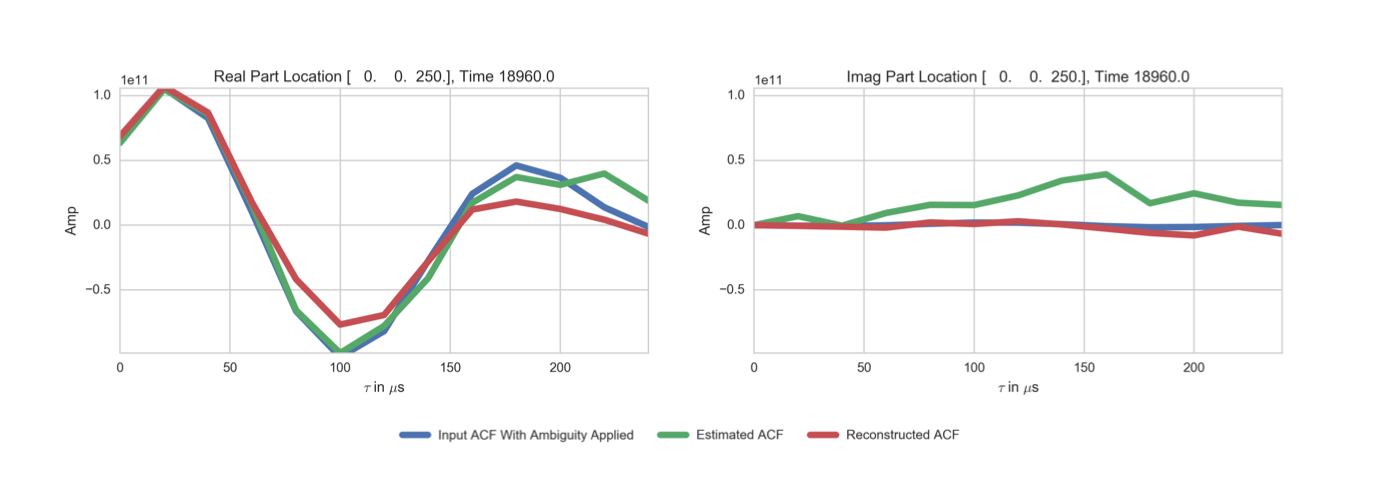
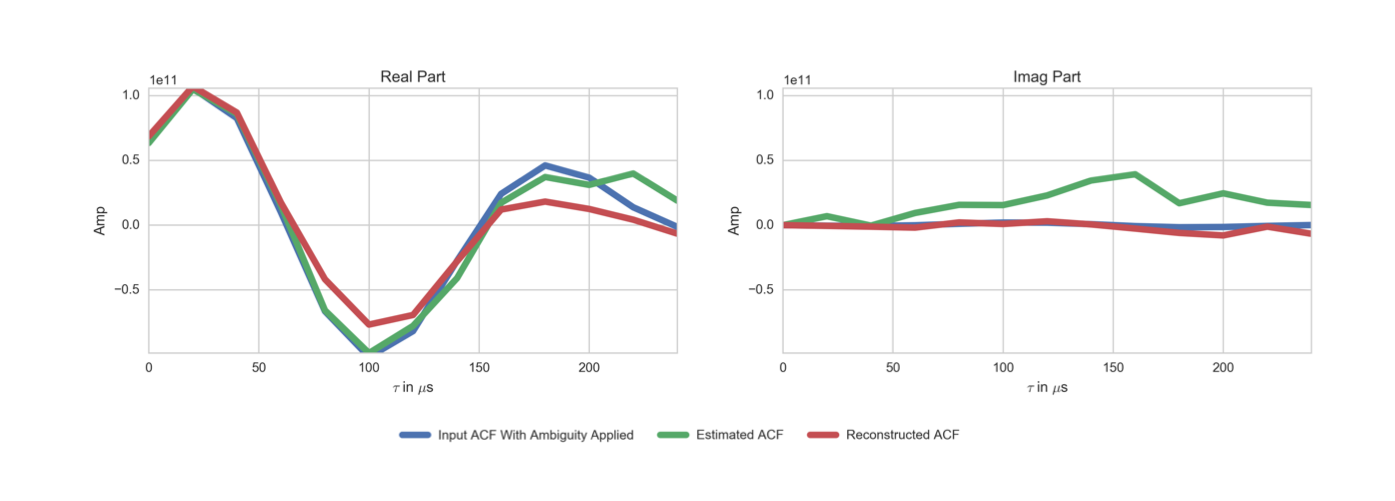
added extra acfs to inversion

diff --git a/5_Inversions/inversion.tex b/5_Inversions/inversion.tex
@@ -335,7 +335,7 @@ The results using standard fitting, and then linearly interpolating the results,
 % inverted and fitted data
 The results of using the inversion algorithms can be seen in Figures \ref{fig:tikpow}, \ref{fig:tikD} and \ref{fig:tv}. The value for the $\gamma$ term for each type of inversion the algorithm is chosen by running the algorithms and taking the value that yields lowest mean squared error between the inverted lag and the original input ACF. 
 
-The case using Tikhonov regularization where the $l^2$-norm of $\mathbf{x}_{m,l}$ is constrained is shown in Figure \ref{fig:tikpow}. This specific case shows an inability of the constraint to fill in data that may be lost due to the specific beam position. 
+The case using Tikhonov regularization where the $l^2$-norm of $\mathbf{x}_{m,l}$ is constrained is shown in Figure \ref{fig:tikpow}. An example ACF comparing the reconstruction to the input ACF and the estimated ACF using standard processing is shown in Figure \ref{fig:tikpowacf}. This specific case shows an inability of the constraint to fill in data that may be lost due to the specific beam position. This can also be seen in the ACF example as this reduced the amplitude of the ACF.
 
 \begin{figure}[!ht]
 \centering
@@ -347,11 +347,11 @@ The case using Tikhonov regularization where the $l^2$-norm of $\mathbf{x}_{m,l}
 \begin{figure}[!ht]
 \centering
 \includegraphics[width=6in]{acftik}
-\caption{Example ACF at $t=960$ s inverting lags with Equation \ref{eqn:tikpow}, Tikhonov constraint on $\mathbf{x}_{m,l}$. }
+\caption{Example ACF at time $t=960$ s and location $\mathbf{r}=[0  \text{km},0  \text{km},250 \text{km}]^T$ with reconstructing lags using Equation \ref{eqn:tikpow}, Tikhonov constraint on $\mathbf{x}_{m,l}$. }
 \label{fig:tikpowacf}
 \end{figure}
 
-The image in Figure \ref{fig:tikD} is the result of using Tikhonov regularization on the spatial gradient of each lag of the ACF. This leads to an apparent smoothing of the plasma parameters but many of the important features in this simulation, such as the depletion in $N_e$ and enhancements in $T_e$ and $T_i$ are visible and more obvious than in Figure \ref{fig:fplparamst60inv}
+The image in Figure \ref{fig:tikD} is the result of using Tikhonov regularization on the spatial gradient of each lag of the ACF. This leads to an apparent smoothing of the plasma parameters but many of the important features in this simulation, such as the depletion in $N_e$ and enhancements in $T_e$ and $T_i$ are visible and more obvious than in Figure \ref{fig:fplparamst60inv}. An example ACF comparing the reconstruction to the input ACF and the estimated ACF using standard processing is shown in Figure \ref{fig:tikDacf}. The example reconstructed ACF does show more deviations from the input in the real part but at the higher lags it more closely resembles the true ACF. The imaginary part though, is much closer to the real ACF as this possibly reduced and random Doppler shifts.
 \begin{figure}[!ht]
 \centering
 \includegraphics[width=6in]{tikdfitted}
@@ -362,22 +362,22 @@ The image in Figure \ref{fig:tikD} is the result of using Tikhonov regularizatio
 \begin{figure}[!ht]
 \centering
 \includegraphics[width=6in]{acftikd}
-\caption{Example ACF at $t=960$ s inverting lags with Equation \ref{eqn:tikpow}, Tikhonov constraint on $\mathbf{x}_{m,l}$. }
+\caption{Example ACF at time $t=960$ s and location $\mathbf{r}=[0  \text{km},0  \text{km},250 \text{km}]^T$ with reconstructing lags using Equation \ref{eqn:tikpow}, Tikhonov constraint on $\mathbf{Dx}_{m,l}$. }
 \label{fig:tikDacf}
 \end{figure}
 
-Lastly for this case the result of the inversion using the total variations constraint is shown in Figure \ref{fig:tv}. This inversion method shows the features discussed earlier but they take on a``blocky" look, as was seen in the zeroth lag case. 
+Lastly for this case the result of the inversion using the total variations constraint is shown in Figure \ref{fig:tv}. This inversion method shows the features discussed earlier but they take on a``blocky" look, as was seen in the zeroth lag case. An example ACF comparing the reconstruction to the input ACF and the estimated ACF using standard processing is shown in Figure \ref{fig:tvacf}. This shows similar behavior to the reconstruction ACF in Figure \ref{fig:tikDacf}, although the imaginary part of the ACF is much closer to the true value of zero.
 \begin{figure}[!ht]
 \centering
 \includegraphics[width=6in]{tvfitted}
-\caption{Example ACF at $t=960$ s inverting lags with Equation \ref{eqn:tv}, Total Variations constraint.}
+\caption{Fitted Plasma Parameters at $t=960$ s inverting lags with Equation \ref{eqn:tv}, Total Variations constraint.}
 \label{fig:tv}
 \end{figure}
 
 \begin{figure}[!ht]
 \centering
 \includegraphics[width=6in]{acftv}
-\caption{Fitted Plasma Parameters at $t=960$ s inverting lags with Equation \ref{eqn:tikpow}, Tikhonov constraint on $\mathbf{x}_{m,l}$. }
+\caption{Example ACF at time $t=960$ s and location $\mathbf{r}=[0  \text{km},0  \text{km},250 \text{km}]^T$ reconstructing lags using Equation \ref{eqn:tv}, Total Variations constraint. }
 \label{fig:tvacf}
 \end{figure}
 
